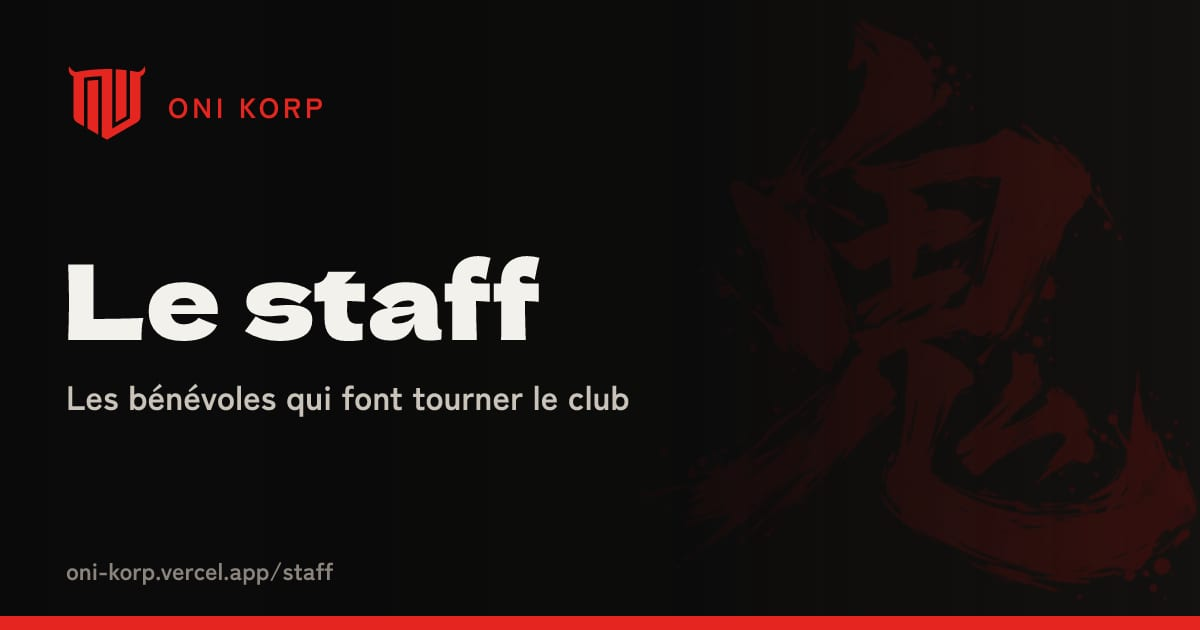
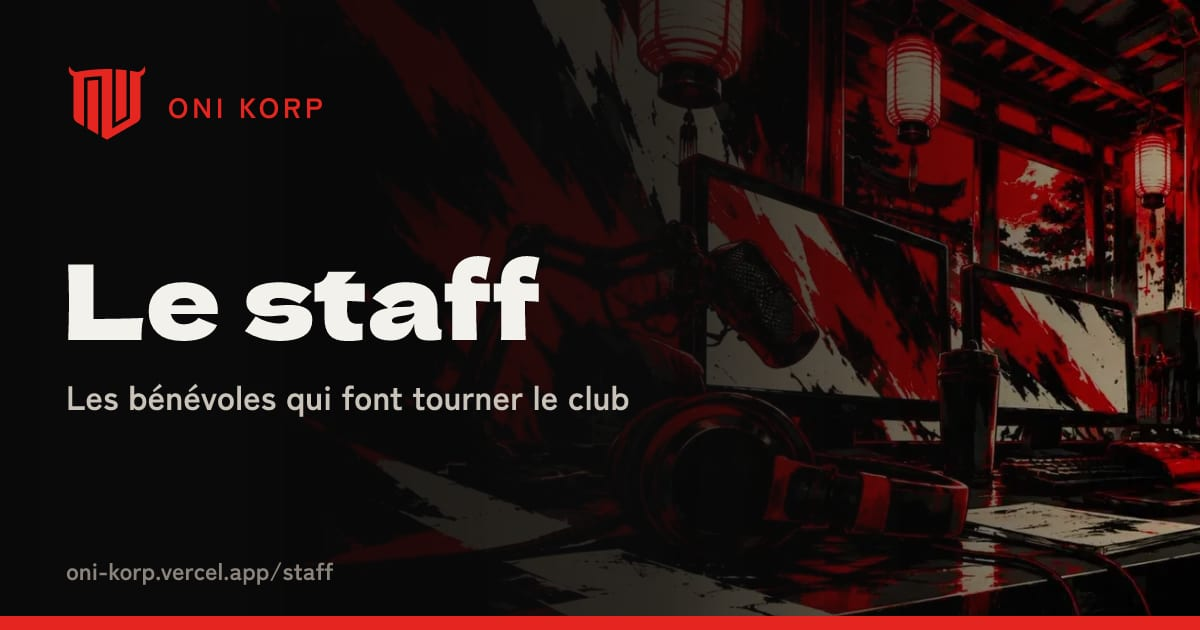
Page Staff : en-tête dédié (visuel de Viktor) et aperçu de partage ; affiches RBRS et soirée inhouse (portrait, X, story)

diff --git a/src/lib/img.js b/src/lib/img.js
@@ -9,6 +9,7 @@ export const variants = {
   'decal-fennec-domicile': [800, 1600],
   'decal-fennec-visiteur': [800, 1600],
   'entete-club': [800, 2000],
+  'entete-staff': [800, 2000],
   'entete-effectif': [800, 2000],
   'entete-recrutement': [800, 2000],
   'entete-vestiaire': [800, 2000],
